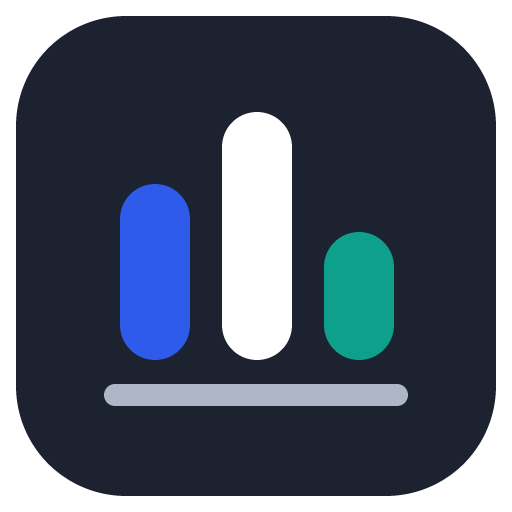
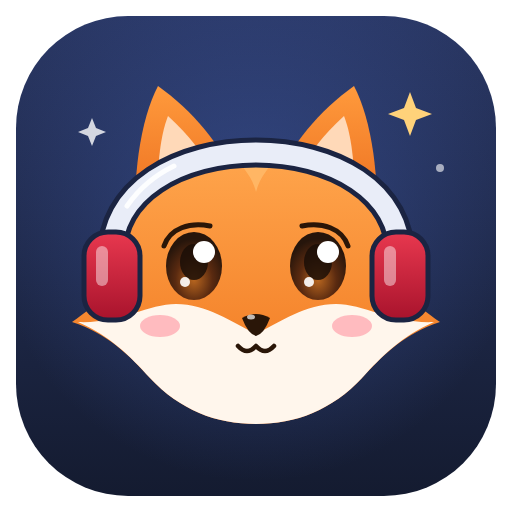
Dolce AV + mascotte

diff --git a/electron/main.js b/electron/main.js
@@ -1,5 +1,7 @@
 'use strict';
-// Application installable « Stock AV » (Electron)
+// Application installable « Dolce AV » (Electron)
+// Le nom technique reste « Stock AV » (package.json productName) : il fixe le dossier d'installation et
+// celui des paramètres (%APPDATA%\Stock AV) — le changer ferait perdre la configuration aux PC déjà installés.
 // - Mode « serveur » : ce PC garde la base et fait tourner le serveur (les autres PC s'y connectent)
 // - Mode « client » : se connecte au serveur d'un autre PC (adresse saisie au premier lancement)
 // - Mise à jour automatique depuis les « Releases » GitHub, vérifiée à chaque lancement
@@ -18,7 +20,7 @@ const saveConfig = (c) => { fs.mkdirSync(path.dirname(CONFIG_FILE), { recursive:
 function suggestedDataDir() {
   const old = path.join(os.homedir(), 'Documents', 'stock-av');
   if (fs.existsSync(path.join(old, 'stock.db'))) return old;
-  return path.join(app.getPath('documents'), 'Stock AV');
+  return path.join(app.getPath('documents'), 'Dolce AV'); // nouveau serveur uniquement (un serveur existant garde son dossier)
 }
 // Adresses de ce PC sur le réseau (à donner aux autres PC)
 const lanUrls = (port) => Object.values(os.networkInterfaces()).flat()
@@ -33,7 +35,7 @@ app.on('second-instance', () => showWindow());
 
 function createWindow() {
   win = new BrowserWindow({
-    width: 1400, height: 900, minWidth: 900, minHeight: 600, show: false, icon: ICON, title: 'Stock AV',
+    width: 1400, height: 900, minWidth: 900, minHeight: 600, show: false, icon: ICON, title: 'Dolce AV',
     autoHideMenuBar: true, backgroundColor: '#f5f6f8',
     webPreferences: { preload: path.join(__dirname, 'preload.js'), contextIsolation: true },
   });
@@ -52,7 +54,7 @@ function createWindow() {
     if (config?.mode === 'server' && !quitting) {
       e.preventDefault(); win.hide();
       if (tray && !config.trayHintShown) {
-        tray.displayBalloon?.({ title: 'Stock AV continue de tourner', content: 'Le serveur reste actif pour les autres PC. Clic droit sur l\'icône près de l\'horloge pour quitter.', iconType: 'info' });
+        tray.displayBalloon?.({ title: 'Dolce AV continue de tourner', content: 'Le serveur reste actif pour les autres PC. Clic droit sur l\'icône près de l\'horloge pour quitter.', iconType: 'info' });
         config.trayHintShown = true; saveConfig(config);
       }
     }
@@ -76,15 +78,15 @@ function buildMenu() {
     { label: 'Rechercher une mise à jour', click: () => checkUpdates(true) },
     { label: 'Outils de développement', accelerator: 'F12', click: () => win.webContents.toggleDevTools() },
     { type: 'separator' }, { label: 'Quitter', click: () => { quitting = true; app.quit(); } });
-  Menu.setApplicationMenu(Menu.buildFromTemplate([{ label: 'Stock AV', submenu: items }]));
+  Menu.setApplicationMenu(Menu.buildFromTemplate([{ label: 'Dolce AV', submenu: items }]));
 }
 
 function createTray(port) {
   tray = new Tray(ICON);
-  tray.setToolTip('Stock AV — serveur actif');
+  tray.setToolTip('Dolce AV — serveur actif');
   const urls = lanUrls(port);
   tray.setContextMenu(Menu.buildFromTemplate([
-    { label: 'Ouvrir Stock AV', click: showWindow },
+    { label: 'Ouvrir Dolce AV', click: showWindow },
     { type: 'separator' },
     { label: 'Adresse pour les autres PC :', enabled: false },
     ...(urls.length ? urls.map((u) => ({ label: `   ${u}  (copier)`, click: () => clipboard.writeText(u) })) : [{ label: '   (pas de réseau)', enabled: false }]),
@@ -103,7 +105,7 @@ function checkUpdates(manual = false) {
   autoUpdater.checkForUpdates().catch(() => {});
 }
 autoUpdater.autoDownload = true;
-autoUpdater.on('update-not-available', () => { if (manualCheck) dialog.showMessageBox(win, { message: `Stock AV est à jour (version ${app.getVersion()}).` }); manualCheck = false; });
+autoUpdater.on('update-not-available', () => { if (manualCheck) dialog.showMessageBox(win, { message: `Dolce AV est à jour (version ${app.getVersion()}).` }); manualCheck = false; });
 autoUpdater.on('error', (e) => { if (manualCheck) dialog.showMessageBox(win, { type: 'warning', message: 'Impossible de vérifier les mises à jour.', detail: String(e?.message || e) }); manualCheck = false; });
 autoUpdater.on('update-downloaded', async (info) => {
   const { response } = await dialog.showMessageBox(win, {
@@ -151,7 +153,7 @@ app.whenReady().then(async () => {
     win.loadURL(appUrl);
   } catch (e) {
     const msg = e.code === 'EADDRINUSE'
-      ? `Le port ${config.port || 3000} est déjà utilisé : l'ancien serveur (fenêtre noire « node server.js ») tourne sans doute encore. Ferme-le, puis relance Stock AV.`
+      ? `Le port ${config.port || 3000} est déjà utilisé : l'ancien serveur (fenêtre noire « node server.js ») tourne sans doute encore. Ferme-le, puis relance Dolce AV.`
       : `Le serveur n'a pas pu démarrer : ${e.message}`;
     openSetup(msg);
   }

diff --git a/electron/setup.html b/electron/setup.html
@@ -3,7 +3,7 @@
 <head>
 <meta charset="utf-8">
 <meta http-equiv="Content-Security-Policy" content="default-src 'self'; style-src 'self' 'unsafe-inline'; script-src 'self' 'unsafe-inline'">
-<title>Stock AV — Paramètres</title>
+<title>Dolce AV — Paramètres</title>
 <style>
   :root { --bg:#f5f6f8; --ink:#1c2230; --muted:#6b7385; --line:#e2e5ec; --accent:#2f5bea; --ok:#1a7f4b; --err:#c0392b; }
   * { box-sizing:border-box; }
@@ -31,10 +31,10 @@
 </style>
 </head>
 <body>
-<header><img src="icon.png" alt=""><h1>Stock AV — paramètres</h1><span class="muted" id="ver" style="color:#aeb6c8;margin-left:auto"></span></header>
+<header><img src="icon.png" alt=""><h1>Dolce AV — paramètres</h1><span class="muted" id="ver" style="color:#aeb6c8;margin-left:auto"></span></header>
 <main>
   <div class="err hidden" id="error"></div>
-  <p style="margin-top:0">Comment ce PC doit-il utiliser Stock AV ? <span class="muted">(modifiable plus tard : menu <b>Stock AV → Paramètres de connexion</b>, touche Alt)</span></p>
+  <p style="margin-top:0">Comment ce PC doit-il utiliser Dolce AV ? <span class="muted">(modifiable plus tard : menu <b>Dolce AV → Paramètres de connexion</b>, touche Alt)</span></p>
 
   <label class="choice"><input type="radio" name="mode" value="server">
     <span><b>Ce PC est le serveur</b>
@@ -43,14 +43,14 @@
     <label class="f">Dossier des données
       <span class="row"><input type="text" id="dataDir"><button type="button" id="browse">Parcourir…</button></span></label>
     <div class="muted" id="dataHint" style="margin-top:6px"></div>
-    <label class="chk"><input type="checkbox" id="autostart" checked> Démarrer Stock AV avec Windows (le serveur tourne en arrière-plan, près de l'horloge)</label>
+    <label class="chk"><input type="checkbox" id="autostart" checked> Démarrer Dolce AV avec Windows (le serveur tourne en arrière-plan, près de l'horloge)</label>
   </div>
 
   <label class="choice"><input type="radio" name="mode" value="client">
     <span><b>Se connecter au serveur</b>
       <span class="muted">Ce PC utilise la base d'un autre PC (le serveur). Les données restent sur le serveur.</span></span></label>
   <div class="card hidden" id="clientBox">
-    <label class="f">Adresse du serveur <span>(affichée sur le PC serveur : clic droit sur l'icône Stock AV près de l'horloge)</span>
+    <label class="f">Adresse du serveur <span>(affichée sur le PC serveur : clic droit sur l'icône Dolce AV près de l'horloge)</span>
       <span class="row"><input type="text" id="serverUrl" placeholder="http://10.20.0.41:3000"><button type="button" id="test">Tester</button></span></label>
     <div id="testResult" style="margin-top:6px"></div>
   </div>

diff --git a/public/index.html b/public/index.html
@@ -3,7 +3,7 @@
 <head>
 <meta charset="utf-8">
 <meta name="viewport" content="width=device-width, initial-scale=1">
-<title>Stock Audiovisuel</title>
+<title>Dolce AV</title>
 <link rel="icon" type="image/png" href="/icon.png">
 <style>
   :root { --bg:#f5f6f8; --card:#fff; --ink:#1c2230; --muted:#6b7385; --line:#e2e5ec; --accent:#2f5bea; --ok:#1a7f4b; --err:#c0392b; }
@@ -11,6 +11,9 @@
   body { margin:0; font:15px/1.4 system-ui,-apple-system,Segoe UI,sans-serif; background:var(--bg); color:var(--ink); }
   header { background:var(--ink); color:#fff; padding:12px 20px; display:flex; align-items:center; gap:24px; flex-wrap:wrap; }
   header h1 { margin:0; font-size:18px; }
+  header h1.brand { display:flex; align-items:center; gap:10px; font-size:20px; font-weight:700; letter-spacing:.01em; }
+  header h1.brand img { width:36px; height:36px; border-radius:9px; }
+  header h1.brand small { font-weight:400; font-size:11px; opacity:.6; letter-spacing:0; align-self:flex-end; margin-bottom:3px; }
   nav button { background:none; border:0; color:#aeb6c8; font:inherit; padding:8px 12px; cursor:pointer; border-radius:6px; }
   nav button.active { background:#2c3550; color:#fff; }
   main { max-width:1100px; margin:20px auto; padding:0 16px; }
@@ -269,7 +272,7 @@
 </head>
 <body class="plwide"><!-- l'app s'ouvre sur le Planning BEO (pleine largeur) -->
 <header>
-  <h1>🎛 Stock Audiovisuel <small id="ver" style="font-weight:400;font-size:11px;opacity:.6"></small></h1>
+  <h1 class="brand"><img src="/icon.png" alt="">Dolce AV <small id="ver"></small></h1>
   <nav id="nav">
     <button data-tab="inventaire">Inventaire</button>
     <button data-tab="lieux">Salles</button>

diff --git a/server.js b/server.js
@@ -881,12 +881,12 @@ module.exports = { start, BUILD, DATA_DIR };
 
 if (require.main === module) {
   start().then(() => {
-    console.log(`Stock AV (${BUILD}) sur http://localhost:${PORT}`);
+    console.log(`Dolce AV (${BUILD}) sur http://localhost:${PORT}`);
     console.log(`Données : ${DATA_DIR}`);
   }).catch((e) => {
     if (e.code === 'EADDRINUSE') {
       console.log(`\nERREUR : le port ${PORT} est déjà utilisé.`);
-      console.log('Une ancienne fenêtre du serveur (ou l\'application Stock AV en mode serveur) tourne encore.');
+      console.log('Une ancienne fenêtre du serveur (ou l\'application Dolce AV en mode serveur) tourne encore.');
       console.log('Ferme-la, ou termine « Node.js JavaScript Runtime » dans le Gestionnaire des tâches, puis relance : node server.js\n');
       process.exit(1);
     }

diff --git a/README.md b/README.md
@@ -1,18 +1,20 @@
-# Stock AV
+# Dolce AV
 
 Suivi du stock audiovisuel et planning BEO de l'équipe AV (Dolce La Hulpe).
 
 ## Utilisation
 
-- **Application installée (recommandé)** : télécharger `Stock AV Setup x.y.z.exe` dans les *Releases* du dépôt GitHub et l'installer.
+- **Application installée (recommandé)** : télécharger `Dolce-AV-Setup-x.y.z.exe` dans les *Releases* du dépôt GitHub et l'installer.
   Au premier lancement, choisir :
   - **Ce PC est le serveur** : un seul PC, qui garde la base (stock, planning, fiches techniques) et reste allumé ;
-  - **Se connecter au serveur** : les autres PC (adresse affichée sur le PC serveur, clic droit sur l'icône Stock AV près de l'horloge).
+  - **Se connecter au serveur** : les autres PC (adresse affichée sur le PC serveur, clic droit sur l'icône Dolce AV près de l'horloge).
   
   L'application vérifie à chaque lancement s'il existe une nouvelle version et se met à jour toute seule.
 - **Sans installation** : `node server.js` (Node 22 ou plus) puis ouvrir http://localhost:3000.
 
 > Windows peut afficher « Windows a protégé votre ordinateur » (application non signée) : *Informations complémentaires → Exécuter quand même*.
+
+> Le nom technique interne reste « Stock AV » (dossier d'installation, paramètres dans `%APPDATA%\Stock AV`) pour que les PC déjà installés gardent leur configuration.
 
 ## Données
 
@@ -21,10 +23,15 @@ Les données ne sont **jamais** dans ce dépôt (voir `.gitignore`) : elles rest
 
 ## Publier une nouvelle version
 
-1. Augmenter `"version"` dans `package.json` (ex. `1.0.0` → `1.0.1`).
+1. Augmenter `"version"` dans `package.json` (ex. `1.0.4` → `1.0.5`).
 2. Envoyer les modifications sur GitHub (GitHub Desktop : *Commit* puis *Push origin*).
-3. GitHub fabrique l'installateur et le publie dans les *Releases* (onglet *Actions* pour suivre, ~5 min).
+3. GitHub fabrique l'installateur et le publie dans les *Releases* (onglet *Actions* pour suivre, ~3 min).
 4. Les applications installées se mettent à jour au lancement suivant ; les pages ouvertes se rechargent toutes seules.
+
+## Mascotte
+
+L'icône (renard avec casque audio) est dessinée en vectoriel dans `build/mascotte.svg` ; `build/icon.png`, `electron/icon.png`
+et `public/icon.png` en sont la version 512×512.
 
 ## Développement
 
